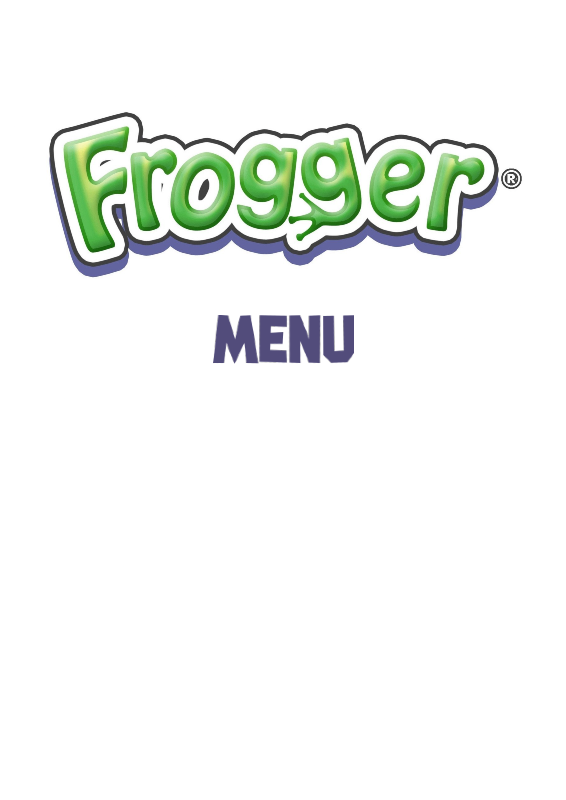
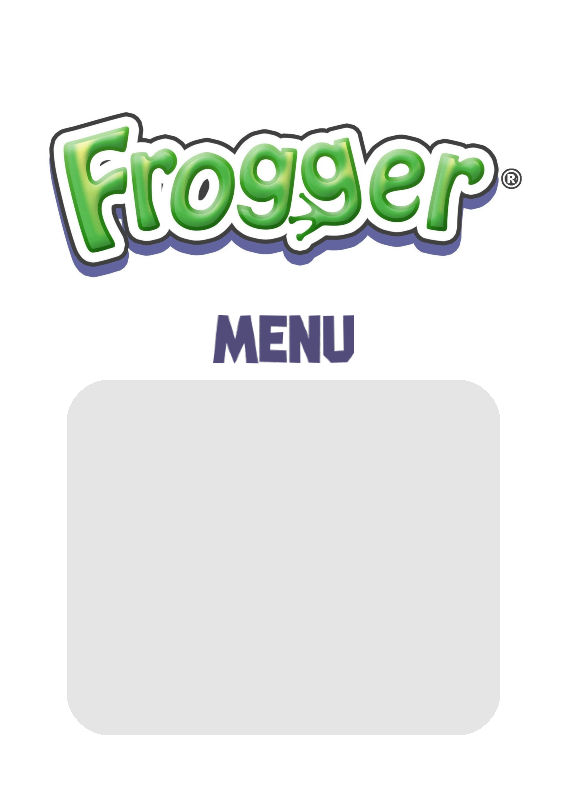
final version

diff --git a/src/main/java/comp2042_cw/Main.java b/src/main/java/comp2042_cw/Main.java
@@ -41,7 +41,7 @@ public class Main extends Application {
 		backgroundStage = new MyStage();
 		frogger = new Frogger("file:src/main/resources/froggerUp.png",score, froggerLife);
 		Scene scene  = new Scene(backgroundStage,566,800);
-		BackgroundImage gameMenuImage = new BackgroundImage("file:src/main/resources/GameMenu1.png");
+		BackgroundImage gameMenuImage = new BackgroundImage("file:src/main/resources/GameMenu.png");
 		BackgroundImage aboutScreenImage = new BackgroundImage("file:src/main/resources/AboutScreen.png");
 		Button startButton = new Button("file:src/main/resources/start.png", -28, 310);
 		Button aboutButton = new Button("file:src/main/resources/about.png", -28, 430);
